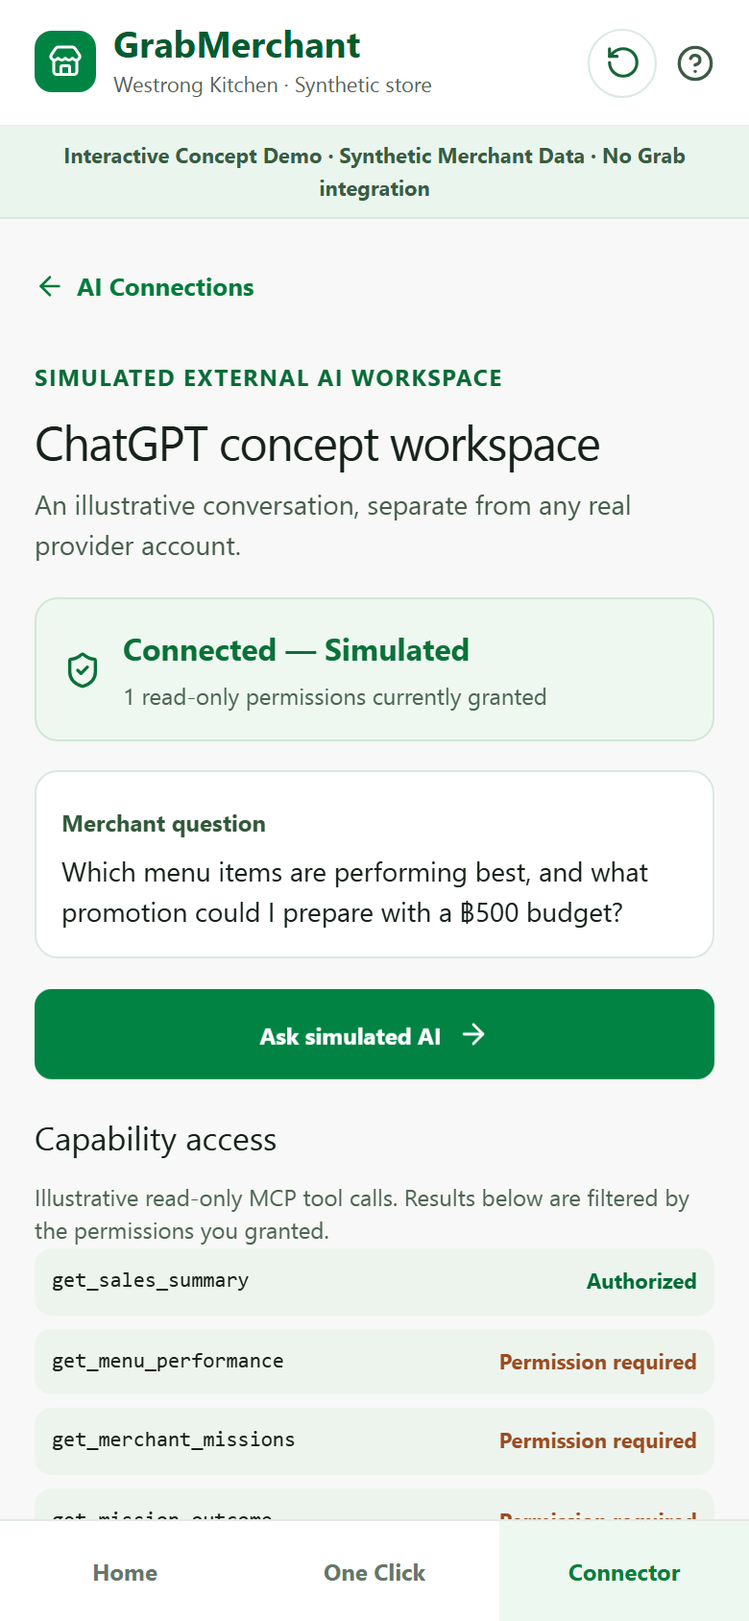
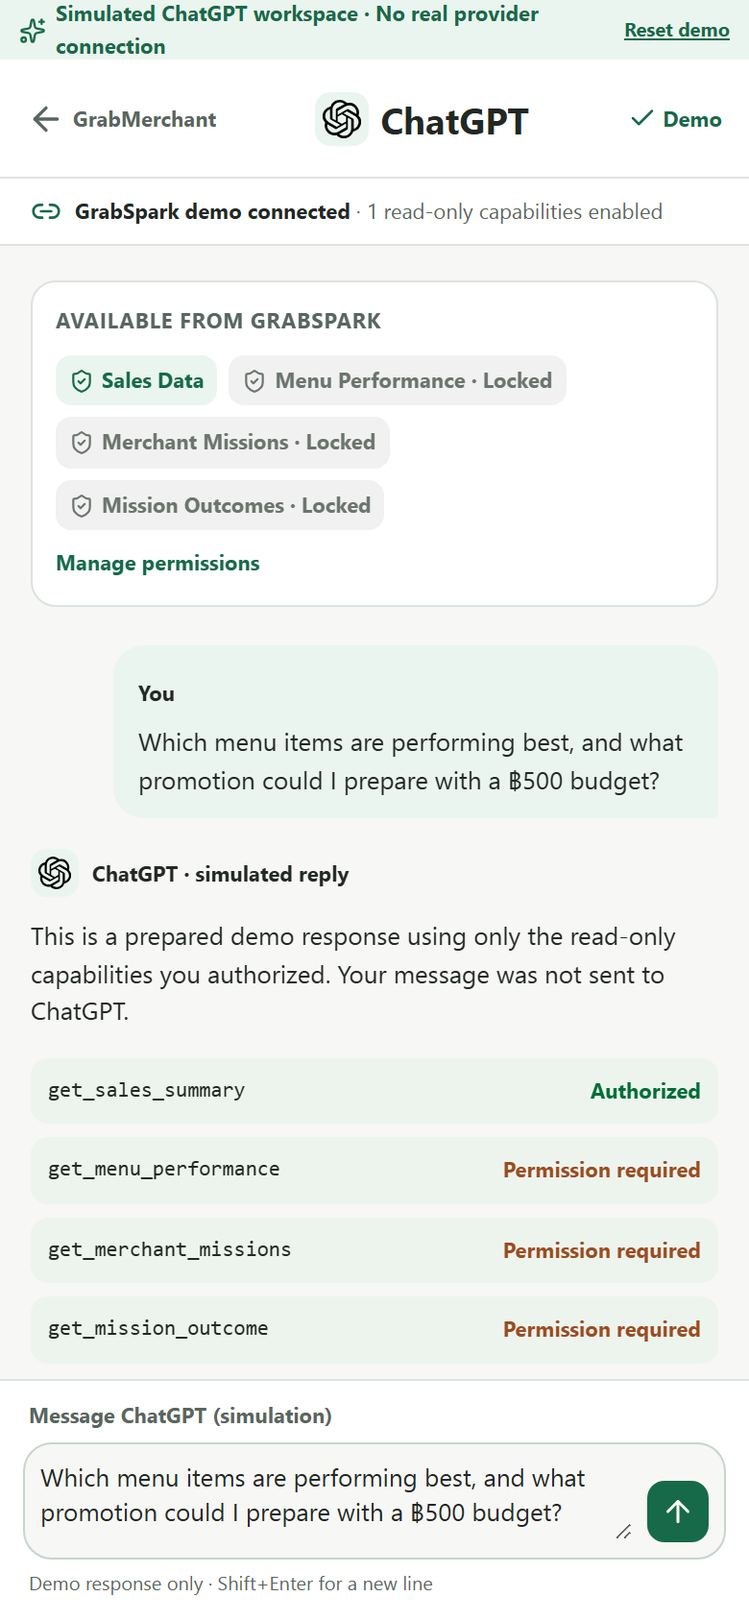
Show themed simulated AI chat workspaces for Judge connector

diff --git a/frontend/components/judge-demo.tsx b/frontend/components/judge-demo.tsx
@@ -3,15 +3,15 @@
 import { useEffect, useRef, useState } from "react";
 import { ArrowLeft, ArrowRight, ChartNoAxesCombined, Check, CheckCircle2, ChevronRight, CircleEllipsis, CircleHelp, ClipboardList, Link2, ListChecks, RotateCcw, ShieldCheck, Sparkles, Store, UtensilsCrossed, X } from "lucide-react";
 import { StrategyVisual } from "@/components/strategy-visual";
+import { SimulatedAiWorkspace } from "@/components/simulated-ai-workspace";
 import { TrendBars } from "@/components/trend-bars";
 import { baht, impactTone, thaiDate } from "@/lib/format";
 import type { StrategyCase, StrategyId } from "@/types/api";
-import { dashboard, evaluation, menus, scopeDefinitions, strategyNames } from "@/demo/fixtures/data";
+import { dashboard, evaluation, scopeDefinitions, strategyNames } from "@/demo/fixtures/data";
 import { clearDemoState, initialDemoState, loadDemoState, saveDemoState, type Client, type DemoState, type DemoView, type Scope } from "@/demo/state";
 
 const ordered = [evaluation.strategies.find(item => item.strategy_id === evaluation.recommended_strategy_id)!, ...evaluation.strategies.filter(item => item.strategy_id !== evaluation.recommended_strategy_id)];
 const recommendation = evaluation.strategies.find(item => item.strategy_id === evaluation.recommended_strategy_id)!;
-const prompt = "Which menu items are performing best, and what promotion could I prepare with a ฿500 budget?";
 const aiClients: Client[] = ["ChatGPT", "Claude", "Other"];
 
 function ClientIcon({ client }: { client: Client }) {
@@ -58,11 +58,12 @@ export function JudgeDemo() {
   }
   function authorize() {
     if (!state.c2.client || state.c2.scopes.length === 0) return;
-    update(old => ({ ...old, c2: { ...old.c2, status: "connected", grantedScopes: [...old.c2.scopes], asked: false, draftReviewed: false } }));
+    update(old => ({ ...old, c2: { ...old.c2, status: "connected", grantedScopes: [...old.c2.scopes], asked: false, lastPrompt: "", draftReviewed: false } }));
   }
   function revoke() {
-    update(old => ({ ...old, c2: { ...old.c2, status: "revoked", scopes: [], grantedScopes: [], asked: false, draftReviewed: false }, view: "connections" }));
+    update(old => ({ ...old, c2: { ...old.c2, status: "revoked", scopes: [], grantedScopes: [], asked: false, lastPrompt: "", draftReviewed: false }, view: "connections" }));
   }
+  if (state.view === "workspace" && state.c2.client) return <SimulatedAiWorkspace client={state.c2.client} c1={state.c1} c2={state.c2} approved={approved} onBack={() => go("connections")} onAsk={message => update(old => ({ ...old, c2: { ...old.c2, asked: true, lastPrompt: message, draftReviewed: false } }))} onReview={() => update(old => ({ ...old, c2: { ...old.c2, draftReviewed: true } }))} onRevoke={revoke} onReset={reset} />;
   return <div className="judge-stage">
     <div className="judge-topline"><span><Sparkles size={16} /> GrabSpark · 2C Interactive Demo</span><button type="button" onClick={reset}><RotateCcw size={15} /> Reset demo</button></div>
     <div className="judge-frame">
@@ -79,9 +80,8 @@ export function JudgeDemo() {
 
         {state.view === "results" && approved && state.c1.resultReady && <div className="judge-page oneclick-results"><Back onClick={() => go("c1-home")} label="Merchant Home" /><span className="review-badge"><CheckCircle2 size={14} /> {state.c1.reviewed ? "Result reviewed" : "Simulated result ready"}</span><h1>7-day simulated result</h1><p className="subtle">{strategyNames[approved.strategy_id]} · Estimate, not actual sales</p><section className="results-hero"><h2>Modeled 7-day contribution</h2><div className="results-totals"><div><span>Baseline</span><strong>{baht(evaluation.baseline.estimated_7d_contribution)}</strong><small>{evaluation.baseline.estimated_units} modeled orders</small></div><span aria-hidden="true">→</span><div><span>Approved strategy</span><strong>{baht(approved.estimated_7d_contribution)}</strong><small>{approved.estimated_units} modeled orders</small></div></div><div className="results-difference"><span>Difference vs. baseline</span><strong className={`impact-${impactTone(approved.estimated_difference)}`}>{baht(approved.estimated_difference, true)}</strong></div><p>Illustrative risk score {approved.risk_score}/100 · Not a validated probability</p></section><section className="results-card"><h2>What the simulation suggests</h2><p className="results-takeaway">{strategyNames[approved.strategy_id]} models a {baht(approved.estimated_difference, true)} contribution difference over 7 days.</p><p>Modeled orders: {evaluation.baseline.estimated_units} baseline → {approved.estimated_units} with the selected strategy. Customer demand and displaced sales have not been observed.</p><p>Check real costs and demand before any live action. No campaign or promotion was created.</p></section><details className="assumptions-details results-assumptions"><summary>Model assumptions</summary><p>{evaluation.provenance}</p><p>Discount demand lift {Number(evaluation.assumptions.discount_demand_lift) * 100}% and {evaluation.assumptions.advertising_incremental_orders} advertising orders are synthetic assumptions, not validated forecasts.</p></details>{!state.c1.reviewed ? <button type="button" className="primary-button" onClick={() => update(old => ({ ...old, c1: { ...old.c1, reviewed: true } }))}>Mark result as reviewed <Check size={17} /></button> : <div className="reviewed-state"><CheckCircle2 size={18} /> Result review saved</div>}<button type="button" className="judge-text-button" onClick={() => go("home")}>Return to Merchant Home</button></div>}
 
-        {state.view === "connections" && <div className="judge-page"><Back onClick={() => go("home")} label="Merchant Home" /><span className="judge-eyebrow">MERCHANT SETTINGS → AI CONNECTIONS</span><h1>AI Connections</h1><p className="judge-lead">Conceptually grant your preferred AI workspace access to selected read-only merchant capabilities.</p><div className="judge-status"><Link2 size={20} /><span><strong>{state.c2.status === "connected" ? "Connected — Simulated" : state.c2.status === "revoked" ? "Access Revoked" : state.c2.scopes.length ? "Permissions Selected" : "Not Connected"}</strong><small>No real AI provider linked</small></span></div><h2>Choose a simulated AI client</h2><div className="judge-client-options">{aiClients.map(client => <button type="button" key={client} className={state.c2.client === client ? "is-active" : ""} aria-pressed={state.c2.client === client} onClick={() => update(old => ({ ...old, c2: { ...old.c2, client, status: "not_connected", grantedScopes: [], asked: false } }))}><ClientIcon client={client} /><span className="judge-client-name">{client}</span><small>Concept option</small></button>)}</div><h2>Read-only permissions</h2><p className="judge-disclosure">Select each capability explicitly. Removing access applies immediately; new permissions need authorization.</p><div className="judge-scope-list">{scopeDefinitions.map(scope => <label key={scope.id}><input type="checkbox" checked={state.c2.scopes.includes(scope.id)} onChange={() => toggleScope(scope.id)} /><span><strong>{scope.name} — Read</strong><small>{scope.detail}</small></span></label>)}</div><button type="button" className="primary-button" disabled={!state.c2.client || state.c2.scopes.length === 0 || state.c2.status === "connected" && sameScopes(state.c2.scopes, state.c2.grantedScopes)} onClick={authorize}>{state.c2.status === "connected" ? "Update authorized permissions" : "Authorize simulated connection"} <ArrowRight size={17} /></button>{state.c2.status === "connected" && <><button type="button" className="secondary-button" onClick={() => go("workspace")}>Open simulated AI workspace <ArrowRight size={17} /></button><button type="button" className="judge-danger-button" onClick={revoke}>Revoke access now</button></>}<p className="judge-disclosure">This is a local browser demonstration. No OAuth, MCP, Grab API, or real ChatGPT/Claude session is used.</p></div>}
+        {state.view === "connections" && <div className="judge-page"><Back onClick={() => go("home")} label="Merchant Home" /><span className="judge-eyebrow">MERCHANT SETTINGS → AI CONNECTIONS</span><h1>AI Connections</h1><p className="judge-lead">Conceptually grant your preferred AI workspace access to selected read-only merchant capabilities.</p><div className="judge-status"><Link2 size={20} /><span><strong>{state.c2.status === "connected" ? "Connected — Simulated" : state.c2.status === "revoked" ? "Access Revoked" : state.c2.scopes.length ? "Permissions Selected" : "Not Connected"}</strong><small>No real AI provider linked</small></span></div><h2>Choose a simulated AI client</h2><div className="judge-client-options">{aiClients.map(client => <button type="button" key={client} className={state.c2.client === client ? "is-active" : ""} aria-pressed={state.c2.client === client} onClick={() => update(old => ({ ...old, c2: { ...old.c2, client, status: "not_connected", grantedScopes: [], asked: false, lastPrompt: "", draftReviewed: false } }))}><ClientIcon client={client} /><span className="judge-client-name">{client}</span><small>Concept option</small></button>)}</div><h2>Read-only permissions</h2><p className="judge-disclosure">Select each capability explicitly. Removing access applies immediately; new permissions need authorization.</p><div className="judge-scope-list">{scopeDefinitions.map(scope => <label key={scope.id}><input type="checkbox" checked={state.c2.scopes.includes(scope.id)} onChange={() => toggleScope(scope.id)} /><span><strong>{scope.name} — Read</strong><small>{scope.detail}</small></span></label>)}</div><button type="button" className="primary-button" disabled={!state.c2.client || state.c2.scopes.length === 0 || state.c2.status === "connected" && sameScopes(state.c2.scopes, state.c2.grantedScopes)} onClick={authorize}>{state.c2.status === "connected" ? "Update authorized permissions" : "Authorize simulated connection"} <ArrowRight size={17} /></button>{state.c2.status === "connected" && <><button type="button" className="secondary-button" onClick={() => go("workspace")}>Open simulated AI workspace <ArrowRight size={17} /></button><button type="button" className="judge-danger-button" onClick={revoke}>Revoke access now</button></>}<p className="judge-disclosure">This is a local browser demonstration. No OAuth, MCP, Grab API, or real ChatGPT/Claude session is used.</p></div>}
 
-        {state.view === "workspace" && <div className="judge-page"><Back onClick={() => go("connections")} label="AI Connections" /><span className="judge-eyebrow">SIMULATED EXTERNAL AI WORKSPACE</span><h1>{state.c2.client ?? "AI"} concept workspace</h1><p className="judge-lead">An illustrative conversation, separate from any real provider account.</p><div className="judge-status"><ShieldCheck size={20} /><span><strong>{state.c2.status === "connected" ? "Connected — Simulated" : "No active connection"}</strong><small>{state.c2.grantedScopes.length} read-only permissions currently granted</small></span></div><div className="judge-chat-question"><strong>Merchant question</strong><p>{prompt}</p></div><button type="button" className="primary-button" disabled={state.c2.status !== "connected"} onClick={() => update(old => ({ ...old, c2: { ...old.c2, asked: true, draftReviewed: false } }))}>Ask simulated AI <ArrowRight size={17} /></button>{state.c2.asked && <><h2>Capability access</h2><p className="judge-disclosure">Illustrative read-only MCP tool calls. Results below are filtered by the permissions you granted.</p><div className="judge-tool-list">{scopeDefinitions.map(scope => <div key={scope.id}><code>{scope.tool}</code><strong className={granted(scope.id) ? "judge-allowed" : "judge-blocked"}>{granted(scope.id) ? "Authorized" : "Permission required"}</strong></div>)}</div>{granted("sales") && <div className="judge-insight"><h3>Sales summary · synthetic</h3><p>{dashboard.today.orders} orders and {baht(dashboard.today.gmv)} GMV on the demo date. Estimated contribution: {baht(dashboard.today.estimated_contribution)}.</p></div>}{granted("menu") && <div className="judge-insight"><h3>Top menu performance · synthetic</h3>{dashboard.top_items.map(item => <p key={item.menu_item_id}>{item.name}: {item.units} units, {baht(item.gmv)} GMV.</p>)}</div>}{granted("missions") && <div className="judge-insight"><h3>Merchant mission · synthetic</h3><p>{state.c1.approved ? `${strategyNames[state.c1.approved]} simulated mission ${state.c1.reviewed ? "reviewed" : "approved"}.` : "One Click opportunity proposed; no strategy approved yet."}</p></div>}{granted("outcomes") && <div className="judge-insight"><h3>Mission outcome · simulated</h3><p>{approved && state.c1.resultReady ? `${strategyNames[approved.strategy_id]} models ${baht(approved.estimated_7d_contribution)} contribution; ${state.c1.reviewed ? "result reviewed" : "result not reviewed"}.` : "No simulated result has been generated in this browser session."}</p></div>}{(!granted("sales") || !granted("menu")) && <div className="judge-permission-warning"><ShieldCheck size={18} /><span>Sales Data and Menu Performance are required for this question. Restricted data is hidden. <button type="button" onClick={() => go("connections")}>Review permissions</button></span></div>}{granted("sales") && granted("menu") && <div className="judge-draft"><span className="judge-eyebrow">CAMPAIGN DRAFT · NOT PUBLISHED</span><h3>Prepare a meal-and-drink offer</h3><dl><div><dt>Objective</dt><dd>Explore growth from popular menu items</dd></div><div><dt>Selected menu</dt><dd>{menus.find(item => item.name === "Chicken Rice")?.name} + {menus.find(item => item.name === "Thai Iced Tea")?.name}</dd></div><div><dt>Proposed promotion</dt><dd>Concept bundle creative for merchant review</dd></div><div><dt>Maximum budget</dt><dd>฿500, as requested by the merchant</dd></div><div><dt>Expected outcome</dt><dd>No numeric forecast from this question; validate costs and demand before proceeding</dd></div><div><dt>Status</dt><dd>{state.c2.draftReviewed ? "Concept approval recorded — no real campaign launched." : "Requires separate merchant approval"}</dd></div></dl><button type="button" className="secondary-button" onClick={() => update(old => ({ ...old, c2: { ...old.c2, draftReviewed: true } }))} disabled={state.c2.draftReviewed}>{state.c2.draftReviewed ? "Concept reviewed" : "Review and confirm concept only"}</button></div>}</>}{state.c2.status === "connected" && <button type="button" className="judge-danger-button" onClick={revoke}>Revoke access</button>}<p className="judge-disclosure">No real AI request, tool call, campaign creation, or publication occurs.</p></div>}
       </main>
       {state.view === "recommendation" && <div id="judge-consent-footer" className="judge-approval-footer"><small>7-day simulation · No real promotion or ad</small><label><input type="checkbox" checked={state.c1.consentInputs} onChange={event => update(old => ({ ...old, c1: { ...old.c1, consentInputs: event.target.checked } }))} /><span>I reviewed the prices, costs, volumes, spending, and assumptions.</span></label><label><input type="checkbox" checked={state.c1.consentSimulation} onChange={event => update(old => ({ ...old, c1: { ...old.c1, consentSimulation: event.target.checked } }))} /><span>I understand this is a simulation and no real campaign will be published.</span></label><button type="button" className="primary-button" disabled={!state.c1.consentInputs || !state.c1.consentSimulation || Boolean(state.c1.approved)} onClick={() => update(old => ({ ...old, view: "processing", c1: { ...old.c1, approved: old.c1.selected, resultReady: false, reviewed: false } }))}>{state.c1.approved ? "Mission already approved" : `Approve and simulate ${strategyNames[chosen.strategy_id]} for 7 days`} <ArrowRight size={16} /></button></div>}
       <nav className="judge-bottom-nav" aria-label="Demo navigation"><button type="button" className={state.view === "home" ? "is-current" : ""} onClick={() => go("home")}>Home</button><button type="button" className={state.view.startsWith("c1") || ["recommendation", "comparison", "details", "processing", "results"].includes(state.view) ? "is-current" : ""} onClick={() => go(state.c1.resultReady ? "results" : state.c1.approved ? "processing" : "recommendation")}>One Click</button><button type="button" className={["connections", "workspace"].includes(state.view) ? "is-current" : ""} onClick={() => go("connections")}>Connector</button></nav>

diff --git a/frontend/components/simulated-ai-workspace.tsx b/frontend/components/simulated-ai-workspace.tsx
@@ -1,0 +1,63 @@
+"use client";
+
+import { useState, type FormEvent } from "react";
+import { ArrowLeft, ArrowUp, Check, Link2, ShieldCheck, Sparkles } from "lucide-react";
+import { baht } from "@/lib/format";
+import { dashboard, menus, scopeDefinitions, strategyNames } from "@/demo/fixtures/data";
+import type { Client, DemoState, Scope } from "@/demo/state";
+import type { StrategyCase } from "@/types/api";
+
+const suggestedPrompt = "Which menu items are performing best, and what promotion could I prepare with a ฿500 budget?";
+
+type Props = {
+  client: Client;
+  c1: DemoState["c1"];
+  c2: DemoState["c2"];
+  approved?: StrategyCase;
+  onBack: () => void;
+  onAsk: (message: string) => void;
+  onReview: () => void;
+  onRevoke: () => void;
+  onReset: () => void;
+};
+
+export function SimulatedAiWorkspace({ client, c1, c2, approved, onBack, onAsk, onReview, onRevoke, onReset }: Props) {
+  const [draft, setDraft] = useState(suggestedPrompt);
+  const granted = (scope: Scope) => c2.status === "connected" && c2.grantedScopes.includes(scope);
+  const providerClass = client === "ChatGPT" ? "chatgpt" : client === "Claude" ? "claude" : "other";
+  const preparedPrompt = c2.lastPrompt === suggestedPrompt || !c2.lastPrompt;
+
+  function send(event: FormEvent<HTMLFormElement>) {
+    event.preventDefault();
+    const message = draft.trim();
+    if (message && c2.status === "connected") onAsk(message);
+  }
+
+  return <div className={`ai-workspace-stage ai-provider-${providerClass}`}>
+    <div className="ai-workspace-frame">
+      <div className="ai-demo-ribbon"><span><Sparkles size={14} aria-hidden="true" /> Simulated {client} workspace · No real provider connection</span><button type="button" onClick={onReset}>Reset demo</button></div>
+      <header className="ai-workspace-header">
+        <button type="button" className="ai-back" onClick={onBack} aria-label="AI Connections"><ArrowLeft size={20} /> <span>GrabMerchant</span></button>
+        <div className="ai-workspace-brand"><span className="ai-workspace-logo" aria-hidden="true">{client === "Other" ? <Sparkles size={22} /> : <img src={`/provider-icons/${client === "Claude" ? "claude" : "openai"}.svg`} alt="" width={22} height={22} />}</span><strong>{client}</strong><small>Concept chat</small></div>
+        <span className="ai-connected-indicator" title="Connected to synthetic merchant data only"><Check size={15} /> Demo</span>
+      </header>
+      <div className="ai-connection-strip"><Link2 size={16} aria-hidden="true" /><span><strong>GrabSpark demo connected</strong> · {c2.grantedScopes.length} read-only capabilities enabled</span></div>
+      <main id="main-content" className="ai-chat-scroll">
+        {!c2.asked && <div className="ai-chat-welcome"><span className="ai-welcome-mark"><Sparkles size={25} aria-hidden="true" /></span><h1>How can I help your store?</h1><p>Ask about the synthetic merchant data you chose to share.</p><button type="button" onClick={() => setDraft(suggestedPrompt)}>Try a store question</button></div>}
+        <section className="ai-capabilities" aria-label="Enabled merchant capabilities"><h2>Available from GrabSpark</h2><div>{scopeDefinitions.map(scope => <span key={scope.id} className={granted(scope.id) ? "is-granted" : "is-locked"}><ShieldCheck size={13} aria-hidden="true" /> {scope.name}{granted(scope.id) ? "" : " · Locked"}</span>)}</div><button type="button" onClick={onBack}>Manage permissions</button></section>
+        {c2.asked && <div className="ai-conversation" aria-live="polite"><div className="ai-user-bubble"><strong>You</strong><p>{c2.lastPrompt || suggestedPrompt}</p></div><div className="ai-assistant-message"><div className="ai-assistant-label"><span className="ai-workspace-logo" aria-hidden="true">{client === "Other" ? <Sparkles size={17} /> : <img src={`/provider-icons/${client === "Claude" ? "claude" : "openai"}.svg`} alt="" width={17} height={17} />}</span><strong>{client} · simulated reply</strong></div><p>{preparedPrompt ? "This is a prepared demo response using only the read-only capabilities you authorized." : "Your message was recorded in this browser. This prototype cannot generate a tailored AI reply, but you can inspect the authorized demo capabilities below."} Your message was not sent to {client === "Other" ? "an AI provider" : client}.</p>
+          <div className="judge-tool-list" aria-label="Simulated capability access">{scopeDefinitions.map(scope => <div key={scope.id}><code>{scope.tool}</code><strong className={granted(scope.id) ? "judge-allowed" : "judge-blocked"}>{granted(scope.id) ? "Authorized" : "Permission required"}</strong></div>)}</div>
+          {granted("sales") && <div className="judge-insight"><h3>Sales summary · synthetic</h3><p>{dashboard.today.orders} orders and {baht(dashboard.today.gmv)} GMV on the demo date. Estimated contribution: {baht(dashboard.today.estimated_contribution)}.</p></div>}
+          {granted("menu") && <div className="judge-insight"><h3>Top menu performance · synthetic</h3>{dashboard.top_items.map(item => <p key={item.menu_item_id}>{item.name}: {item.units} units, {baht(item.gmv)} GMV.</p>)}</div>}
+          {granted("missions") && <div className="judge-insight"><h3>Merchant mission · synthetic</h3><p>{c1.approved ? `${strategyNames[c1.approved]} simulated mission ${c1.reviewed ? "reviewed" : "approved"}.` : "One Click opportunity proposed; no strategy approved yet."}</p></div>}
+          {granted("outcomes") && <div className="judge-insight"><h3>Mission outcome · simulated</h3><p>{approved && c1.resultReady ? `${strategyNames[approved.strategy_id]} models ${baht(approved.estimated_7d_contribution)} contribution; ${c1.reviewed ? "result reviewed" : "result not reviewed"}.` : "No simulated result has been generated in this browser session."}</p></div>}
+          {preparedPrompt && (!granted("sales") || !granted("menu")) && <div className="judge-permission-warning"><ShieldCheck size={18} /><span>Sales Data and Menu Performance are required for this question. Restricted data is hidden. <button type="button" onClick={onBack}>Review permissions</button></span></div>}
+          {preparedPrompt && granted("sales") && granted("menu") && <div className="judge-draft"><span className="judge-eyebrow">CAMPAIGN DRAFT · NOT PUBLISHED</span><h3>Prepare a meal-and-drink offer</h3><dl><div><dt>Objective</dt><dd>Explore growth from popular menu items</dd></div><div><dt>Selected menu</dt><dd>{menus.find(item => item.name === "Chicken Rice")?.name} + {menus.find(item => item.name === "Thai Iced Tea")?.name}</dd></div><div><dt>Proposed promotion</dt><dd>Concept bundle creative for merchant review</dd></div><div><dt>Maximum budget</dt><dd>฿500, as requested by the merchant</dd></div><div><dt>Expected outcome</dt><dd>No numeric forecast from this question; validate costs and demand before proceeding</dd></div><div><dt>Status</dt><dd>{c2.draftReviewed ? "Concept approval recorded — no real campaign launched." : "Requires separate merchant approval"}</dd></div></dl><button type="button" className="secondary-button" onClick={onReview} disabled={c2.draftReviewed}>{c2.draftReviewed ? "Concept reviewed" : "Review and confirm concept only"}</button></div>}
+        </div></div>}
+        <p className="ai-chat-disclaimer">Illustrative local demo. No real AI request, tool call, campaign creation, or publication occurs.</p>
+        <button type="button" className="ai-revoke-link" onClick={onRevoke}>Revoke access</button>
+      </main>
+      <form className="ai-chat-composer" onSubmit={send}><label htmlFor="ai-demo-message">Message {client} (simulation)</label><div><textarea id="ai-demo-message" value={draft} onChange={event => setDraft(event.target.value.slice(0, 500))} onKeyDown={event => { if (event.key === "Enter" && !event.shiftKey) { event.preventDefault(); event.currentTarget.form?.requestSubmit(); } }} rows={2} placeholder="Ask about your store…" /><button type="submit" aria-label="Ask simulated AI" disabled={!draft.trim() || c2.status !== "connected"}><ArrowUp size={18} /></button></div><small>Demo response only · Shift+Enter for a new line</small></form>
+    </div>
+  </div>;
+}

diff --git a/frontend/app/simulated-ai-workspace.css b/frontend/app/simulated-ai-workspace.css
@@ -1,0 +1,53 @@
+.ai-workspace-stage { --ai-bg:#f7f7f5; --ai-surface:#fff; --ai-ink:#222824; --ai-muted:#596660; --ai-accent:#166a49; --ai-soft:#eaf5ef; min-height:100dvh; display:flex; align-items:center; justify-content:center; padding:20px; background:#e7ebe8; color:var(--ai-ink); }
+.ai-provider-claude { --ai-bg:#faf8f3; --ai-surface:#fffdfa; --ai-ink:#322b26; --ai-muted:#71665c; --ai-accent:#b65f43; --ai-soft:#f7e9de; background:#ebe5dd; }
+.ai-provider-other { --ai-bg:#f5f7fa; --ai-surface:#fff; --ai-ink:#263443; --ai-muted:#5a6877; --ai-accent:#3e668c; --ai-soft:#e9f0f7; background:#e4eaf0; }
+.ai-workspace-frame { display:flex; flex-direction:column; width:min(430px,100%); height:min(920px,calc(100dvh - 40px)); min-height:500px; overflow:hidden; border:1px solid #d8dfdb; border-radius:25px; background:var(--ai-bg); box-shadow:0 24px 70px #203b2826; }
+.ai-demo-ribbon { display:flex; align-items:center; justify-content:space-between; gap:8px; min-height:31px; padding:5px 10px; background:var(--ai-soft); color:var(--ai-accent); font-size:11px; font-weight:750; }
+.ai-demo-ribbon span { display:flex; align-items:center; gap:5px; min-width:0; }
+.ai-demo-ribbon svg { flex:0 0 auto; }
+.ai-demo-ribbon button { flex:0 0 auto; padding:2px 0; border:0; background:none; color:var(--ai-accent); font:inherit; font-size:10px; text-decoration:underline; cursor:pointer; }
+.ai-workspace-header { display:flex; align-items:center; justify-content:space-between; gap:7px; min-height:62px; padding:9px 14px; border-bottom:1px solid #dfe4e0; background:var(--ai-surface); }
+.ai-back { display:flex; align-items:center; gap:4px; min-width:0; padding:6px 0; border:0; background:none; color:var(--ai-muted); font-size:11px; font-weight:700; cursor:pointer; }
+.ai-back span { overflow:hidden; text-overflow:ellipsis; white-space:nowrap; }
+.ai-workspace-brand { display:flex; align-items:center; gap:6px; min-width:0; }
+.ai-workspace-brand strong { font-size:19px; white-space:nowrap; }
+.ai-workspace-brand small { display:none; color:var(--ai-muted); font-size:10px; }
+.ai-workspace-logo { display:grid; place-items:center; flex:0 0 auto; width:28px; height:28px; border-radius:8px; background:var(--ai-soft); color:var(--ai-accent); }
+.ai-workspace-logo img { display:block; width:20px; height:20px; }
+.ai-connected-indicator { display:flex; align-items:center; gap:3px; color:var(--ai-accent); font-size:11px; font-weight:800; white-space:nowrap; }
+.ai-connection-strip { display:flex; align-items:center; gap:7px; padding:9px 16px; border-bottom:1px solid #dfe4e0; background:var(--ai-surface); color:var(--ai-muted); font-size:11px; line-height:1.3; }
+.ai-connection-strip svg { flex:0 0 auto; color:var(--ai-accent); }
+.ai-connection-strip strong { color:var(--ai-ink); }
+.ai-chat-scroll { flex:1 1 auto; min-height:0; overflow-y:auto; padding:18px 16px 28px; scrollbar-width:thin; }
+.ai-chat-welcome { padding:30px 0 24px; text-align:center; }
+.ai-welcome-mark { display:grid; place-items:center; width:48px; height:48px; margin:0 auto 13px; border-radius:15px; background:var(--ai-soft); color:var(--ai-accent); }
+.ai-chat-welcome h1 { margin:0 0 7px; font-size:22px; line-height:1.2; }
+.ai-chat-welcome p { margin:0; color:var(--ai-muted); font-size:13px; line-height:1.45; }
+.ai-chat-welcome button { margin-top:14px; padding:8px 12px; border:1px solid #d9e0dc; border-radius:16px; background:var(--ai-surface); color:var(--ai-ink); font-size:12px; font-weight:700; cursor:pointer; }
+.ai-capabilities { padding:12px; border:1px solid #dce3df; border-radius:13px; background:var(--ai-surface); }
+.ai-capabilities h2 { margin:0 0 9px; color:var(--ai-muted); font-size:11px; font-weight:800; text-transform:uppercase; letter-spacing:.04em; }
+.ai-capabilities > div { display:flex; flex-wrap:wrap; gap:6px; }
+.ai-capabilities span { display:inline-flex; align-items:center; gap:4px; max-width:100%; padding:5px 7px; border-radius:8px; background:var(--ai-soft); color:var(--ai-accent); font-size:11px; font-weight:700; }
+.ai-capabilities span.is-locked { background:#f0f1f0; color:#6b746d; }
+.ai-capabilities button { margin-top:9px; padding:0; border:0; background:none; color:var(--ai-accent); font-size:11px; font-weight:800; cursor:pointer; }
+.ai-conversation { display:grid; gap:16px; margin-top:20px; }
+.ai-user-bubble { justify-self:end; max-width:88%; padding:11px 13px; border-radius:16px 16px 3px 16px; background:var(--ai-soft); overflow-wrap:anywhere; }
+.ai-user-bubble strong,.ai-assistant-label { font-size:11px; }
+.ai-user-bubble p,.ai-assistant-message > p { margin:5px 0 0; font-size:13px; line-height:1.5; }
+.ai-assistant-message { min-width:0; }
+.ai-assistant-label { display:flex; align-items:center; gap:7px; margin-bottom:10px; }
+.ai-assistant-label .ai-workspace-logo { width:25px; height:25px; }
+.ai-assistant-label .ai-workspace-logo img { width:17px; height:17px; }
+.ai-assistant-message .judge-tool-list { margin:15px 0; }
+.ai-assistant-message .judge-insight,.ai-assistant-message .judge-draft { background:var(--ai-surface); }
+.ai-chat-disclaimer { margin:18px 0 8px; color:var(--ai-muted); font-size:11px; line-height:1.4; }
+.ai-revoke-link { padding:0; border:0; background:none; color:#a0444b; font-size:11px; font-weight:700; text-decoration:underline; cursor:pointer; }
+.ai-chat-composer { flex:0 0 auto; padding:10px 12px 12px; border-top:1px solid #dce3df; background:var(--ai-surface); }
+.ai-chat-composer label { display:block; margin:0 0 6px 3px; color:var(--ai-muted); font-size:11px; font-weight:750; }
+.ai-chat-composer > div { display:flex; align-items:flex-end; gap:7px; padding:8px; border:1px solid #c8d4cc; border-radius:15px; background:var(--ai-bg); }
+.ai-chat-composer textarea { flex:1 1 auto; min-width:0; min-height:43px; max-height:90px; resize:vertical; border:0; outline:0; background:transparent; color:var(--ai-ink); font:inherit; font-size:13px; line-height:1.35; }
+.ai-chat-composer button { display:grid; place-items:center; flex:0 0 32px; width:32px; height:32px; border:0; border-radius:9px; background:var(--ai-accent); color:#fff; cursor:pointer; }
+.ai-chat-composer button:disabled { opacity:.45; cursor:not-allowed; }
+.ai-chat-composer small { display:block; margin:5px 0 0 3px; color:var(--ai-muted); font-size:10px; }
+.ai-workspace-frame button:focus-visible,.ai-workspace-frame textarea:focus-visible { outline:2px solid var(--ai-accent); outline-offset:2px; }
+@media (max-width:440px) { .ai-workspace-stage { padding:0; } .ai-workspace-frame { width:100%; height:100dvh; min-height:0; border:0; border-radius:0; } }

diff --git a/frontend/demo/state.ts b/frontend/demo/state.ts
@@ -6,14 +6,14 @@ export type DemoView = "home" | "c1-home" | "recommendation" | "comparison" | "d
 export type DemoState = {
   view: DemoView;
   c1: { selected: StrategyId; detail: StrategyId; consentInputs: boolean; consentSimulation: boolean; approved: StrategyId | null; resultReady: boolean; reviewed: boolean };
-  c2: { client: Client | null; scopes: Scope[]; grantedScopes: Scope[]; status: "not_connected" | "connected" | "revoked"; asked: boolean; draftReviewed: boolean };
+  c2: { client: Client | null; scopes: Scope[]; grantedScopes: Scope[]; status: "not_connected" | "connected" | "revoked"; asked: boolean; lastPrompt: string; draftReviewed: boolean };
 };
 
 const key = "grabspark:judge-demo:v1";
 export const initialDemoState: DemoState = {
   view: "home",
   c1: { selected: "bundle", detail: "bundle", consentInputs: false, consentSimulation: false, approved: null, resultReady: false, reviewed: false },
-  c2: { client: null, scopes: [], grantedScopes: [], status: "not_connected", asked: false, draftReviewed: false },
+  c2: { client: null, scopes: [], grantedScopes: [], status: "not_connected", asked: false, lastPrompt: "", draftReviewed: false },
 };
 
 const views: DemoView[] = ["home", "c1-home", "recommendation", "comparison", "details", "processing", "results", "connections", "workspace"];
@@ -28,7 +28,7 @@ export function loadDemoState(): DemoState {
     const value = JSON.parse(raw) as DemoState;
     if (!views.includes(value.view) || !strategies.includes(value.c1.selected) || !strategies.includes(value.c1.detail) || (value.c1.approved !== null && !strategies.includes(value.c1.approved)) || typeof value.c1.resultReady !== "boolean" || typeof value.c1.reviewed !== "boolean" || ((value.view === "processing" || value.view === "results") && !value.c1.approved) || (value.c1.reviewed && !value.c1.resultReady) || (value.view === "results" && !value.c1.resultReady) || (value.c2.client !== null && !clients.includes(value.c2.client)) || !["not_connected", "connected", "revoked"].includes(value.c2.status) || !Array.isArray(value.c2.scopes) || !value.c2.scopes.every(scope => scopes.includes(scope)) || !Array.isArray(value.c2.grantedScopes) || !value.c2.grantedScopes.every(scope => scopes.includes(scope))) return initialDemoState;
     if (value.c2.status === "connected" && (!value.c2.client || value.c2.grantedScopes.length === 0)) return initialDemoState;
-    return value;
+    return { ...value, c2: { ...value.c2, lastPrompt: typeof value.c2.lastPrompt === "string" ? value.c2.lastPrompt.slice(0, 500) : "" } };
   } catch { return initialDemoState; }
 }
 

diff --git a/frontend/app/layout.tsx b/frontend/app/layout.tsx
@@ -6,6 +6,7 @@ import "./checkpoint-a1.css";
 import "./fidelity.css";
 import "./strategy.css";
 import "./judge-demo.css";
+import "./simulated-ai-workspace.css";
 
 export const metadata: Metadata = {
   title: "GrabMerchant Concept | Westrong Kitchen",
